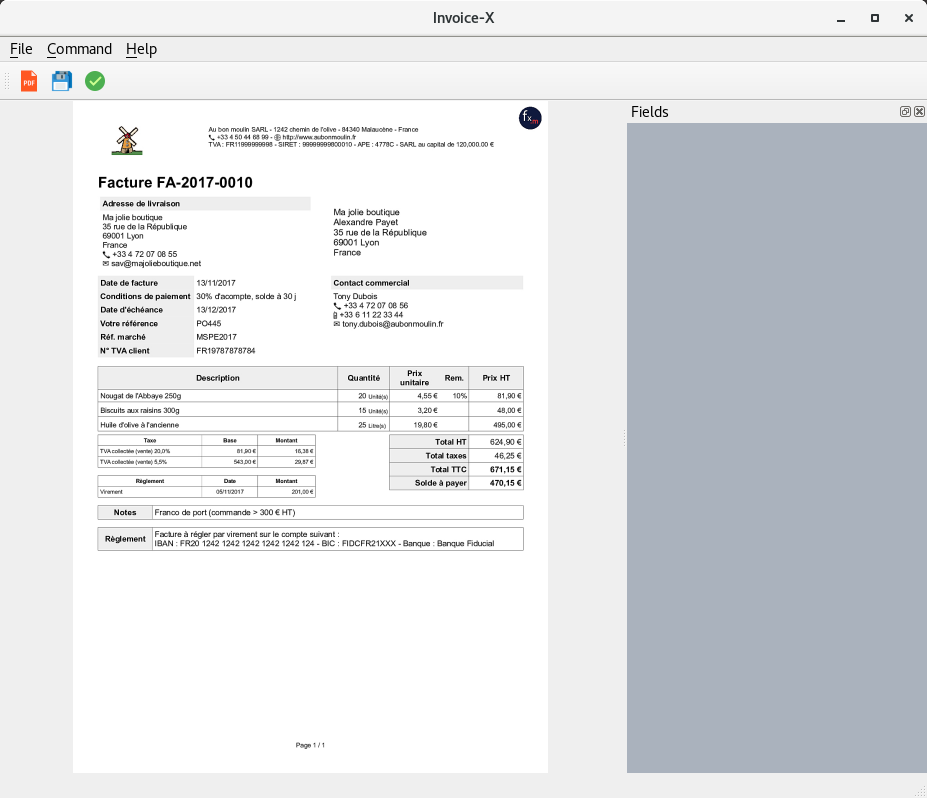
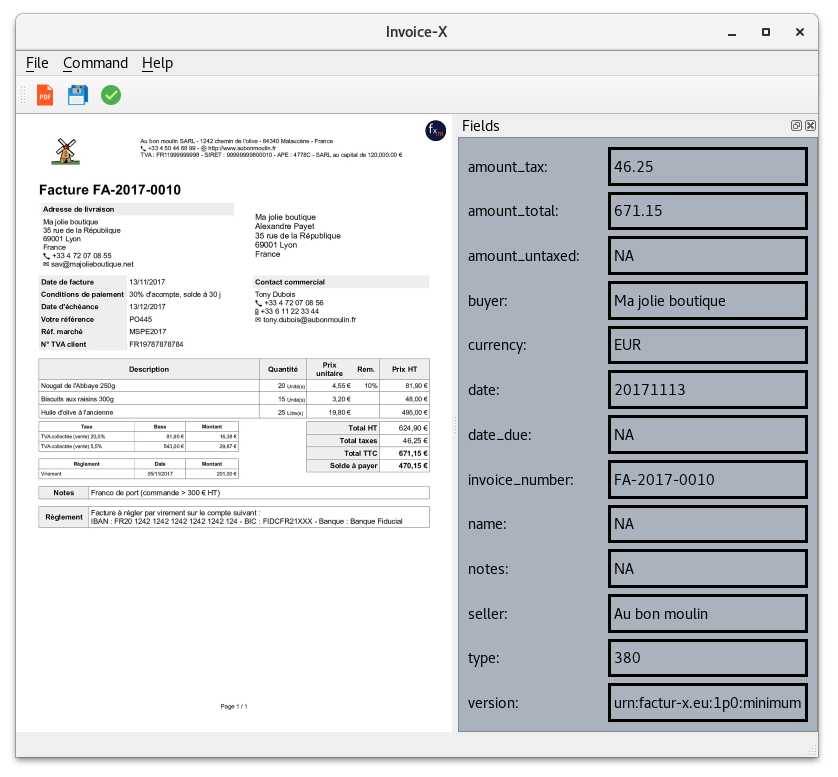
Added Load Fields Feature

Changed region(s): [[0.0, 0.0309, 1.0, 1.0], [0.8998, 0.0, 0.9928, 0.0927], [0.4344, 0.0, 0.5585, 0.0618]]

diff --git a/main.py b/main.py
@@ -6,18 +6,21 @@ import sys
 import subprocess
 import os
 from os.path import expanduser
+from facturx import *
+import json
 
-from PyQt5.QtWidgets import (QMainWindow, QTextEdit, QAction, QApplication,
-                            QFileDialog, QLabel, QWidget, QDockWidget,
-                            QListWidget, QHBoxLayout, QSizePolicy)
-from PyQt5.QtGui import QPixmap, QColor, QIcon
-from PyQt5.QtCore import Qt, QEvent
+from PyQt5.QtWidgets import (QMainWindow, QAction, QApplication, QFileDialog,
+                             QLabel, QDockWidget, QSizePolicy, QGridLayout,
+                             QScrollArea, QWidget, QFrame)
+from PyQt5.QtGui import QPixmap, QIcon
+from PyQt5.QtCore import Qt
+
 
 class InvoiceX(QMainWindow):
-    
+
     def __init__(self):
         super().__init__()
-        
+
         self.left = 300
         self.top = 300
         self.width = 680
@@ -26,7 +29,7 @@ class InvoiceX(QMainWindow):
         self.fileLoaded = False
 
         self.initUI()
-        
+
     def initUI(self):
 
         # StatusBar
@@ -37,14 +40,7 @@ class InvoiceX(QMainWindow):
         self.setMenuBar()
 
         # Dock View Right (Fields)
-        self.fields = QDockWidget("Fields", self)
-        self.fieldsWidget = QLabel(self)
-
-        self.fields.setWidget(self.fieldsWidget)
-        self.fields.setFloating(False)
-        self.fields.setMinimumWidth(300)
-        self.fields.setStyleSheet("QWidget { background-color: #AAB2BD}")        
-        self.addDockWidget(Qt.RightDockWidgetArea, self.fields)
+        self.dockViewRight()
 
         # Central Widget (PDF Preview)
         # self.pdfPreview = 'image.jpg'
@@ -58,8 +54,21 @@ class InvoiceX(QMainWindow):
         toolbar.addAction(self.validateMetadata)
 
         self.setGeometry(self.left, self.top, self.width, self.height)
-        self.setWindowTitle('Invoice-X')    
+        self.setWindowTitle('Invoice-X')
         self.show()
+
+    def dockViewRight(self):
+        self.fields = QDockWidget("Fields", self)
+        self.fieldsQWidget = QWidget()
+        self.fieldsScrollArea = QScrollArea()
+        self.fieldsScrollArea.setWidgetResizable(True)
+        self.fieldsScrollArea.setWidget(self.fieldsQWidget)
+
+        self.fields.setWidget(self.fieldsScrollArea)
+        self.fields.setFloating(False)
+        self.fields.setMinimumWidth(360)
+        self.fields.setStyleSheet("QWidget { background-color: #AAB2BD}")
+        self.addDockWidget(Qt.RightDockWidgetArea, self.fields)
 
     def setMenuBar(self):
         self.exitAct = QAction(QIcon('icons/exit.png'), 'Exit', self)
@@ -122,20 +131,50 @@ class InvoiceX(QMainWindow):
 
         helpMenu = menubar.addMenu('&Help')
 
+    def pdfPreview(self, fileName):
+        print(str(fileName))
+        if not os.path.exists('.load'):
+            os.mkdir('.load')
+        convert = ['convert', '-verbose', '-density', '150', '-trim', fileName,
+                   '-quality', '100', '-flatten', '-sharpen', '0x1.0',
+                   '.load/preview.jpg']
+        subprocess.call(convert)
+        self.pdfPreview = '.load/preview.jpg'
+        self.fileLoaded = True
+        self.square.setPixmap(QPixmap(self.pdfPreview).scaled(self.square.size().width(), self.square.size().height(),Qt.KeepAspectRatio, Qt.SmoothTransformation))
+
+    def showFields(self, fileName):
+        factx = FacturX(fileName)
+        factx.write_json('.load/output.json')
+        with open('.load/output.json') as jsonFile:
+            self.fieldsDict = json.load(jsonFile)
+        os.remove('.load/output.json')
+
+        layout = QGridLayout()
+        i = 0
+        for key in sorted(self.fieldsDict):
+            i += 1
+            fieldKey = QLabel(key + ": ")
+            if self.fieldsDict[key] is None:
+                fieldValue = QLabel("NA")
+            else:
+                fieldValue = QLabel(self.fieldsDict[key])
+            fieldValue.setFrameShape(QFrame.Panel)
+            fieldValue.setFrameShadow(QFrame.Plain)
+            fieldValue.setLineWidth(3)
+            layout.addWidget(fieldKey, i, 0)
+            layout.addWidget(fieldValue, i, 1)
+
+        self.fieldsQWidget.setLayout(layout)
+
     def showFileDialog(self):
 
-        fname = QFileDialog.getOpenFileName(self, 'Open file', expanduser("~"), "pdf (*.pdf)")
-        
-        if fname[0]:
-            print(str(fname[0]))
-            if not os.path.exists('.load'):
-                os.mkdir('.load')
-            convert = ['convert', '-verbose', '-density', '150', '-trim', fname[0], '-quality', '100', '-flatten', '-sharpen', '0x1.0', '.load/preview.jpg']
-            subprocess.call(convert)
-            self.pdfPreview = '.load/preview.jpg'
-            self.fileLoaded = True
-            self.square.setPixmap(QPixmap(self.pdfPreview).scaled(self.square.size().width(),self.square.size().height(),Qt.KeepAspectRatio , Qt.SmoothTransformation))
-        
+        fileName = QFileDialog.getOpenFileName(self, 'Open file',
+                                               expanduser("~"), "pdf (*.pdf)")
+
+        if fileName[0]:
+            self.pdfPreview(fileName[0])
+            self.showFields(fileName[0])
 
             # self.file_selected.setText(str(fname[0][0]))
             # self.file_names = fname[0]
@@ -148,15 +187,16 @@ class InvoiceX(QMainWindow):
 
     def exportFields(self, outputformat):
         pass
-    
+
     def resizeEvent(self, event):
         if self.fileLoaded:
             self.square.setPixmap(QPixmap(self.pdfPreview).scaled(self.square.size().width(),self.square.size().height(),Qt.KeepAspectRatio , Qt.SmoothTransformation))
             self.square.setSizePolicy(QSizePolicy.Minimum, QSizePolicy.Ignored)
             QMainWindow.resizeEvent(self, event)
 
+
 if __name__ == '__main__':
-    
+
     app = QApplication(sys.argv)
     invoicex = InvoiceX()
     sys.exit(app.exec_())
